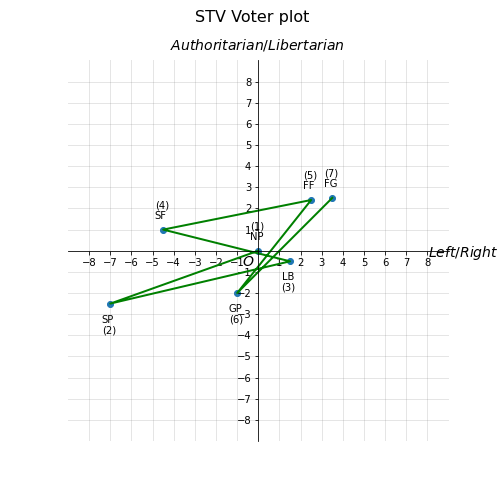
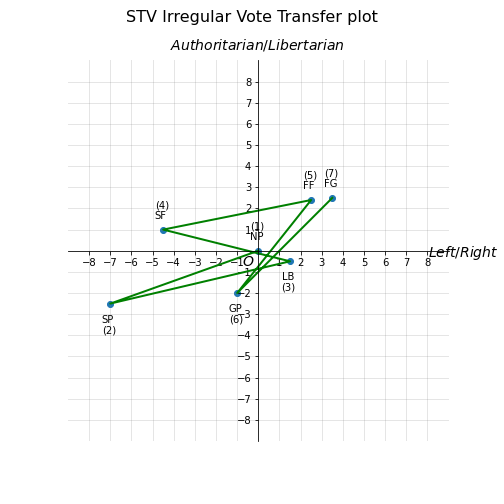
added the political compass vote transfer plot reg & irr py files

Changed region(s): [[0.2381, 0.0, 0.744, 0.0595]]

diff --git a/python/py/PlotRegularVoteTransfers.py b/python/py/PlotRegularVoteTransfers.py
@@ -1,0 +1,138 @@
+#!/usr/bin/env python
+# coding: utf-8
+
+# # Plot Vote Transfers on the Political Compass
+
+#draw a graph of the political compass, tracking a PR-STV vote
+import matplotlib.pyplot as plt
+import pandas as pd
+import numpy as np
+
+#set up the paramaters of the graph, axes and background.
+xmin, xmax, ymin, ymax = -8, 8, -8, 8
+ticks_frequency = 1
+fig, ax = plt.subplots(figsize=(7,7), num="PR-STV Vote Traced") 
+fig.patch.set_facecolor('#ffffff')
+ax.set(xlim=(xmin-1, xmax+1), ylim=(ymin-1, ymax+1), aspect='equal')
+ax.spines['bottom'].set_position('zero')
+ax.spines['left'].set_position('zero')
+ax.spines['top'].set_visible(False)
+ax.spines['right'].set_visible(False)
+ax.set_xlabel('$Left/Right$', size=14, labelpad=-24, x=1.04, y=1)
+ax.set_ylabel('$Authoritarian/Libertarian$', size=14, labelpad=-21, y=1.02, rotation=0)
+ 
+plt.text(0.49, 0.49, r"$O$", ha='right', va='top',
+    transform=ax.transAxes,
+         horizontalalignment='center', fontsize=14)
+
+x_ticks = np.arange(xmin, xmax+1, ticks_frequency)
+y_ticks = np.arange(ymin, ymax+1, ticks_frequency)
+ax.set_xticks(x_ticks[x_ticks != 0])
+ax.set_yticks(y_ticks[y_ticks != 0])
+ax.set_xticks(np.arange(xmin, xmax+1), minor=True)
+ax.set_yticks(np.arange(ymin, ymax+1), minor=True)
+
+ax.grid(which='both', color='grey', linewidth=1, linestyle='-', alpha=0.2)
+
+# Add title
+#fig.canvas.set_window_title('PR-STV Vote') #set above
+fig.suptitle('STV Regular Vote Transfer plot', fontsize=16)
+
+#download compass data positioning irish political parties on the political spectrum
+indata='../../data/pc.csv'
+
+#set column names
+col_names = ['party', 'xaxis', 'yaxis']
+#read in data
+df = pd.read_csv(indata, na_values=["Missing"], names=col_names)
+print(df)
+points=[]
+points = df.party
+x=[] #x-axis coordinates
+y=[] #y-axis coordinates
+pt=[]
+
+#populate two lists with the x and y - coordinates
+for p in points:
+    pt.append(df.party)
+    x.append(df.xaxis)
+    y.append(df.yaxis)
+
+#Irregular Vote
+#dVote= ['NP', 'SP', 'LB', 'SF', 'FF', 'GP', 'FG']
+#Regular Vote
+dVote =['FG','FG','FF', 'GP']
+
+#populate 3 lists with text, x co-ord and y co-ord
+dfi = df.party.tolist()
+print("dfi",dfi)
+xi=[]
+yi=[]
+pp=[]
+for d in dVote:
+    inx=dfi.index(d)
+    pp.append(df.iloc[inx].tolist()[0])
+    xi.append(df.iloc[inx].tolist()[1])
+    yi.append(df.iloc[inx].tolist()[2])
+#print(df.iloc[inx].tolist()[2])
+for ip in range(len(pp)):
+    print(f"{ip+1} - {pp[ip]} ({xi[ip]}, {yi[ip]})")
+
+
+#plt.plot((-6.0,-3.5,1,-1.2,1.5,1.5),(-3.5, 1.5,0.2,-1,-1.5,1.5), 'ro-')
+#plt.plot(df.xaxis.to_numpy(),df.yaxis.to_numpy(), 'ro-')
+plt.plot(xi,yi, color='green', linewidth=2, linestyle='solid')
+
+#Calculate the eculidean distance a vote travels on the political spectrum
+dist = 0
+total_dist=0
+for pl in range(len(pp)):
+# initializing points in
+# numpy arrays      
+    if pl != (len(pp)-1):
+        point1 = np.array((xi[pl],yi[pl]))
+        point2 = np.array((xi[pl+1],yi[pl+1]))
+
+#calculating Euclidean distance
+# using linalg.norm()
+        dist = np.linalg.norm(point1 - point2)
+        print(f"Euclidean distance between vote {pl+1} and {pl+2} is {dist}")
+        total_dist = total_dist + dist
+        
+avg_dist = total_dist/(len(pp)-1)    
+print("Total Distance Travelled on Political Compass as a vote transfers ", total_dist)
+print("Average Distance Travelled on Political Compass of each vote transfers ", avg_dist)
+
+
+#print the vote number above/below the point on the plot
+pt=df.party.to_numpy()
+for m in range(len(pp)):
+    n = xi[m]
+    o = yi[m]
+    ptext=pp[m]
+    vno = "("+str(m+1)+")"
+
+    if o >= 0:
+        plt.text(n -0.4, o +0.5, ptext, fontsize=10)
+        plt.text(n -0.4, o +1.0, vno, fontsize=10)      
+
+    else:
+        plt.text(n -0.4, o -0.9, ptext, fontsize=10)
+        plt.text(n -0.4, o -1.4, vno, fontsize=10)      
+
+#plot all the points
+plt.scatter(xi,yi)
+
+
+# Save the political compass plot
+plt.savefig('../../images/RegularVoteTransferplot.png')
+
+#show political compass
+plt.show()
+
+
+# In[ ]:
+
+
+
+

diff --git a/python/py/PlotIrregularVoteTransfers.py b/python/py/PlotIrregularVoteTransfers.py
@@ -1,0 +1,135 @@
+#!/usr/bin/env python
+# coding: utf-8
+
+# # Plot Vote Transfers on the Political Compass
+
+#draw a graph of the political compass, tracking a PR-STV vote
+import matplotlib.pyplot as plt
+import pandas as pd
+import numpy as np
+
+#set up the paramaters of the graph, axes and background.
+xmin, xmax, ymin, ymax = -8, 8, -8, 8
+ticks_frequency = 1
+fig, ax = plt.subplots(figsize=(7,7), num="PR-STV Vote Traced") 
+fig.patch.set_facecolor('#ffffff')
+ax.set(xlim=(xmin-1, xmax+1), ylim=(ymin-1, ymax+1), aspect='equal')
+ax.spines['bottom'].set_position('zero')
+ax.spines['left'].set_position('zero')
+ax.spines['top'].set_visible(False)
+ax.spines['right'].set_visible(False)
+ax.set_xlabel('$Left/Right$', size=14, labelpad=-24, x=1.04, y=1)
+ax.set_ylabel('$Authoritarian/Libertarian$', size=14, labelpad=-21, y=1.02, rotation=0)
+ 
+plt.text(0.49, 0.49, r"$O$", ha='right', va='top',
+    transform=ax.transAxes,
+         horizontalalignment='center', fontsize=14)
+
+x_ticks = np.arange(xmin, xmax+1, ticks_frequency)
+y_ticks = np.arange(ymin, ymax+1, ticks_frequency)
+ax.set_xticks(x_ticks[x_ticks != 0])
+ax.set_yticks(y_ticks[y_ticks != 0])
+ax.set_xticks(np.arange(xmin, xmax+1), minor=True)
+ax.set_yticks(np.arange(ymin, ymax+1), minor=True)
+
+ax.grid(which='both', color='grey', linewidth=1, linestyle='-', alpha=0.2)
+
+# Add title
+#fig.canvas.set_window_title('PR-STV Vote') #set above
+fig.suptitle('STV Irregular Vote Transfer plot', fontsize=16)
+
+#download compass data positioning irish political parties on the political spectrum
+indata='../../data/pc.csv'
+
+#set column names
+col_names = ['party', 'xaxis', 'yaxis']
+#read in data
+df = pd.read_csv(indata, na_values=["Missing"], names=col_names)
+print(df)
+points=[]
+points = df.party
+x=[] #x-axis coordinates
+y=[] #y-axis coordinates
+pt=[]
+
+#populate two lists with the x and y - coordinates
+for p in points:
+    pt.append(df.party)
+    x.append(df.xaxis)
+    y.append(df.yaxis)
+
+#Irregular Vote
+dVote= ['NP', 'SP', 'LB', 'SF', 'FF', 'GP', 'FG']
+#Regular Vote
+#dVote =['FG','FG','FF', 'GP']
+
+#populate 3 lists with text, x co-ord and y co-ord
+dfi = df.party.tolist()
+print("dfi",dfi)
+xi=[]
+yi=[]
+pp=[]
+for d in dVote:
+    inx=dfi.index(d)
+    pp.append(df.iloc[inx].tolist()[0])
+    xi.append(df.iloc[inx].tolist()[1])
+    yi.append(df.iloc[inx].tolist()[2])
+#print(df.iloc[inx].tolist()[2])
+for ip in range(len(pp)):
+    print(f"{ip+1} - {pp[ip]} ({xi[ip]}, {yi[ip]})")
+
+
+#plt.plot((-6.0,-3.5,1,-1.2,1.5,1.5),(-3.5, 1.5,0.2,-1,-1.5,1.5), 'ro-')
+#plt.plot(df.xaxis.to_numpy(),df.yaxis.to_numpy(), 'ro-')
+plt.plot(xi,yi, color='green', linewidth=2, linestyle='solid')
+
+#Calculate the eculidean distance a vote travels on the political spectrum
+dist = 0
+total_dist=0
+for pl in range(len(pp)):
+# initializing points in
+# numpy arrays      
+    if pl != (len(pp)-1):
+        point1 = np.array((xi[pl],yi[pl]))
+        point2 = np.array((xi[pl+1],yi[pl+1]))
+
+#calculating Euclidean distance
+# using linalg.norm()
+        dist = np.linalg.norm(point1 - point2)
+        print(f"Euclidean distance between vote {pl+1} and {pl+2} is {dist}")
+        total_dist = total_dist + dist
+        
+avg_dist = total_dist/(len(pp)-1)    
+print("Total Distance Travelled on Political Compass as a vote transfers ", total_dist)
+print("Average Distance Travelled on Political Compass of each vote transfers ", avg_dist)
+
+
+#print the vote number above/below the point on the plot
+pt=df.party.to_numpy()
+for m in range(len(pp)):
+    n = xi[m]
+    o = yi[m]
+    ptext=pp[m]
+    vno = "("+str(m+1)+")"
+
+    if o >= 0:
+        plt.text(n -0.4, o +0.5, ptext, fontsize=10)
+        plt.text(n -0.4, o +1.0, vno, fontsize=10)      
+
+    else:
+        plt.text(n -0.4, o -0.9, ptext, fontsize=10)
+        plt.text(n -0.4, o -1.4, vno, fontsize=10)      
+
+#plot all the points
+plt.scatter(xi,yi)
+
+# Save the vote transfers plot
+plt.savefig('../../images/IrregularVoteTransfersplot.png')
+
+#show plot
+plt.show()
+
+
+
+
+
